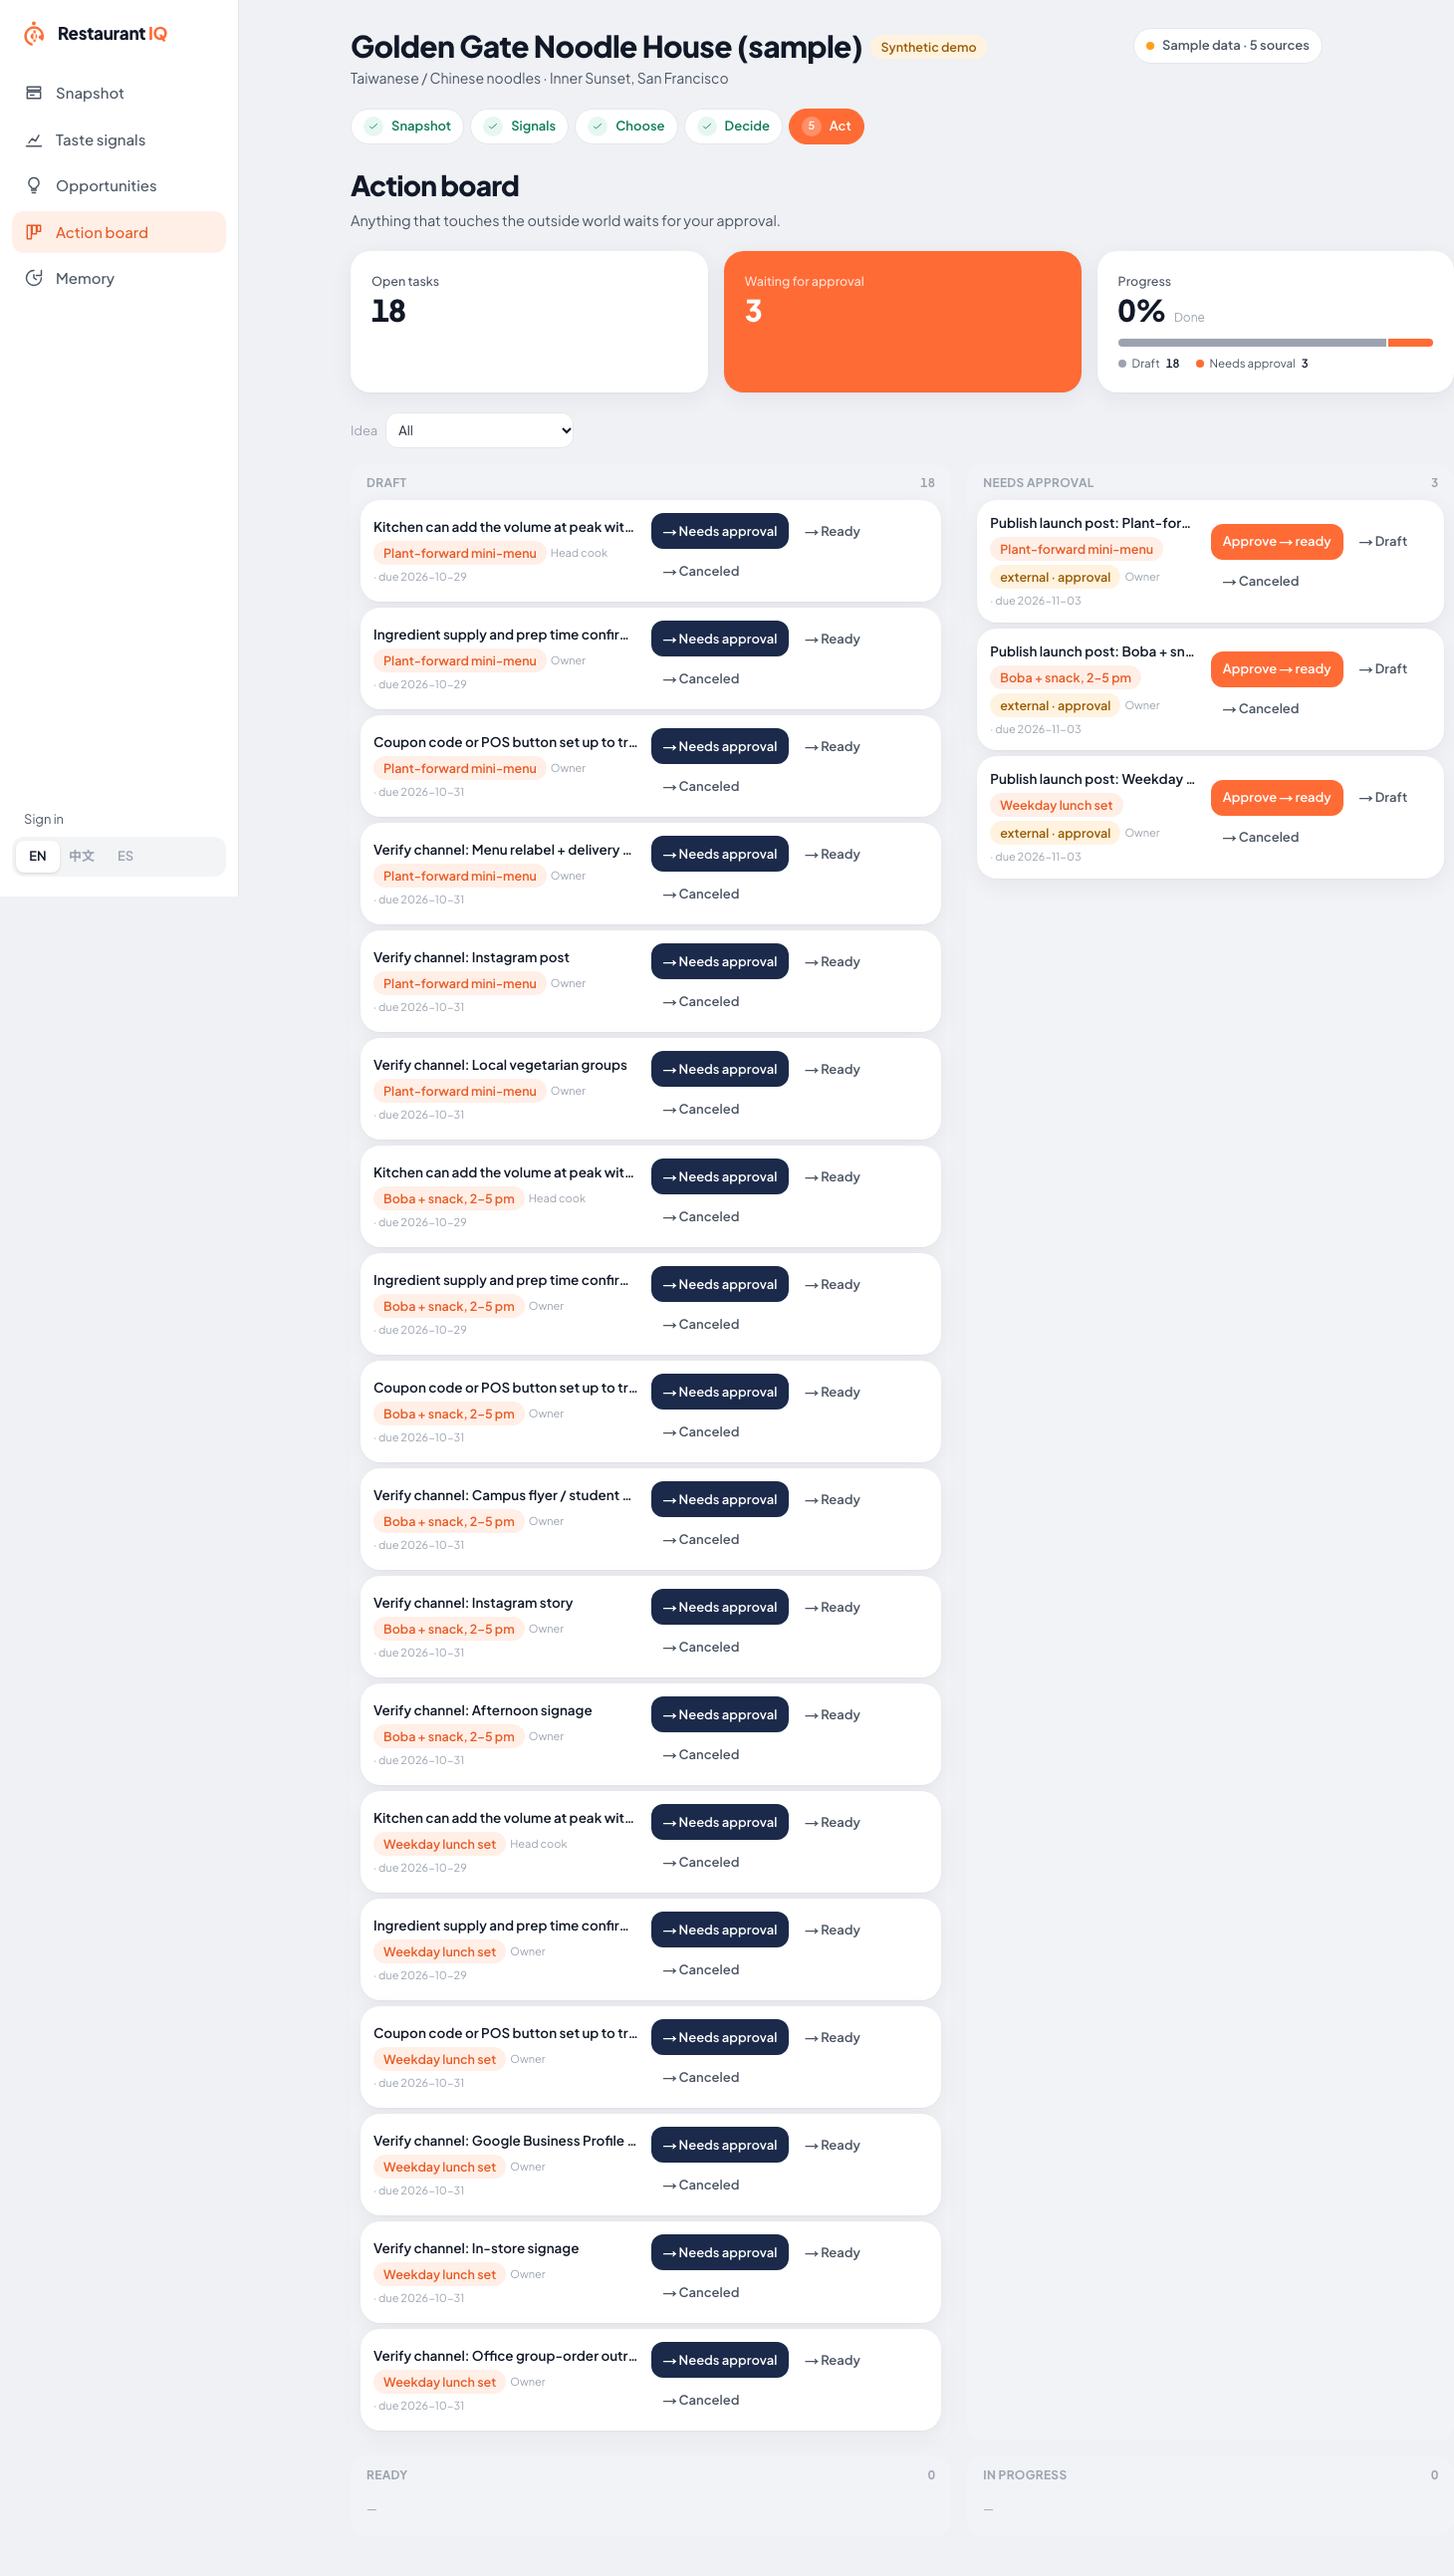
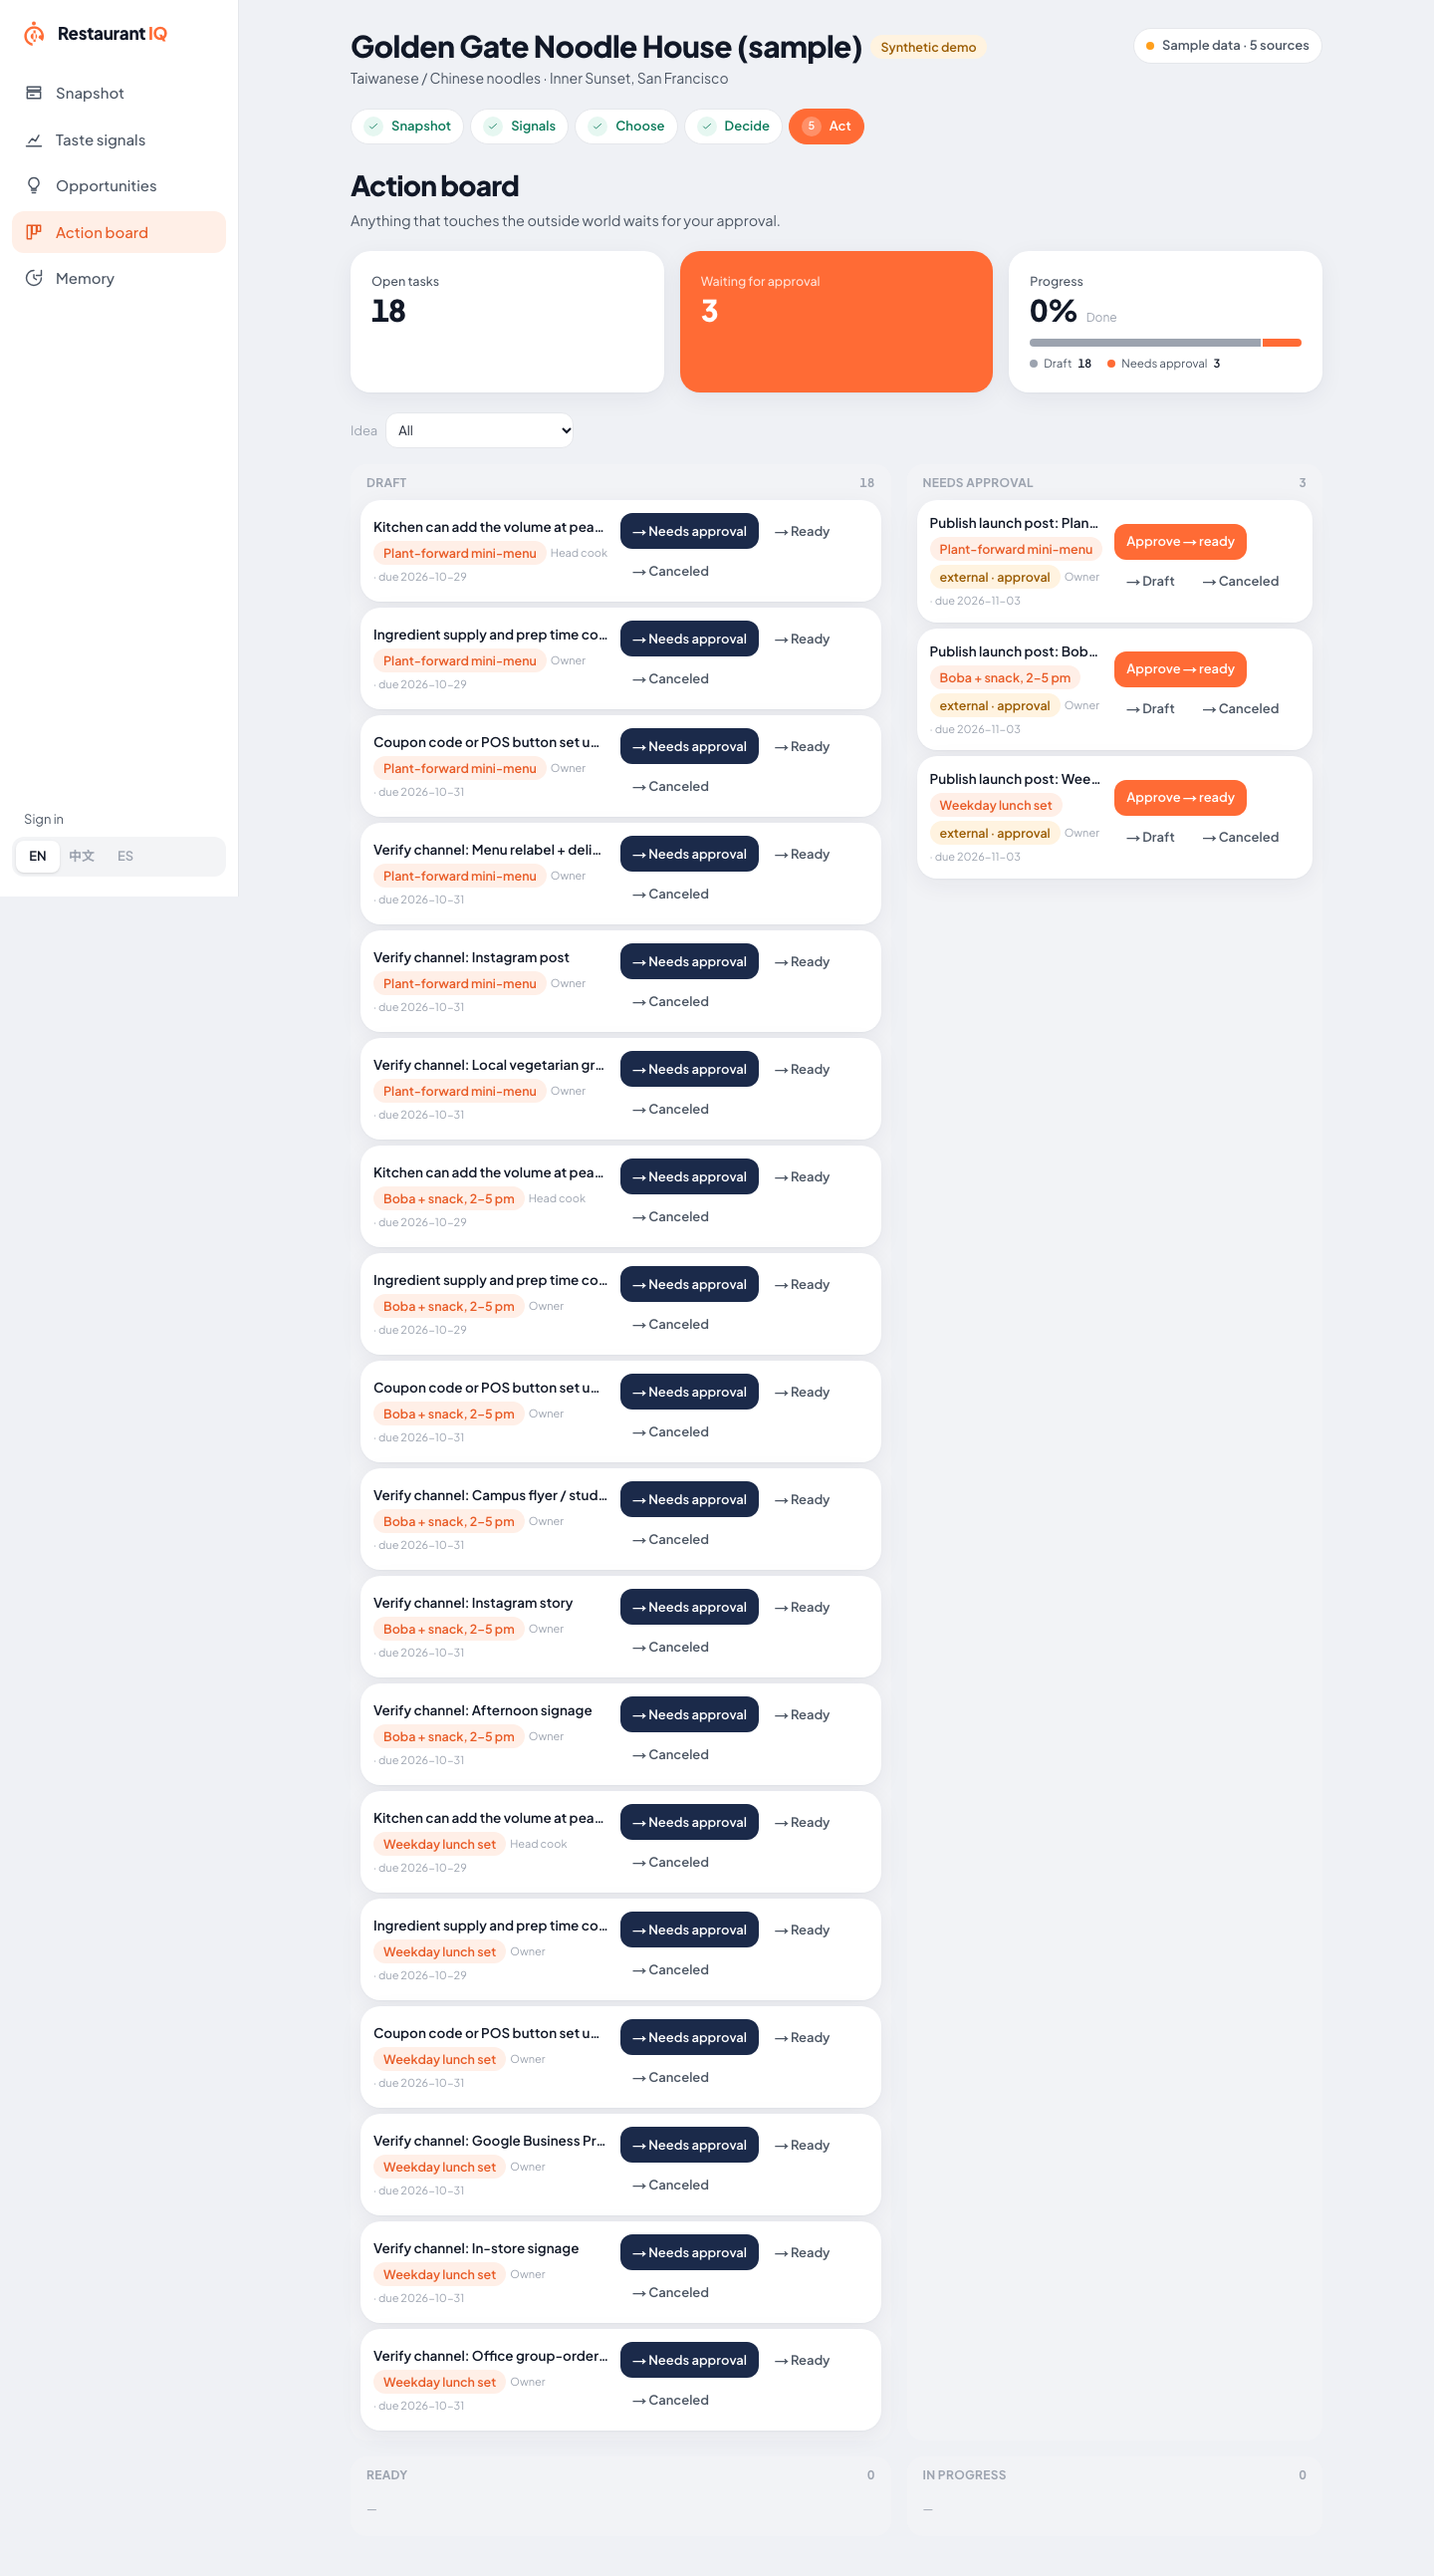
fix: grid/flex children can shrink; no page-level horizontal overflow on phones

diff --git a/src/app/globals.css b/src/app/globals.css
@@ -74,6 +74,9 @@ body { background: var(--bg); color: var(--ink); font-family: var(--font-sans); 
 .sheet { box-shadow: var(--shadow-sheet); }
 .ring { display: inline-block; width: 14px; height: 14px; border-radius: 50%; background: conic-gradient(var(--coral) calc(var(--v, 0) * 360deg), var(--border) 0); }
 .hairline { border-top: 1px solid var(--border); }
+/* grid/flex children may always shrink below their content width (prevents phone-width overflow) */
+.grid > *, .flex > * { min-width: 0; }
+html, body { overflow-x: hidden; }
 .scroll-x { -ms-overflow-style: none; scrollbar-width: none; }
 .scroll-x::-webkit-scrollbar { display: none; }
 input[type="range"] { accent-color: var(--coral); }
